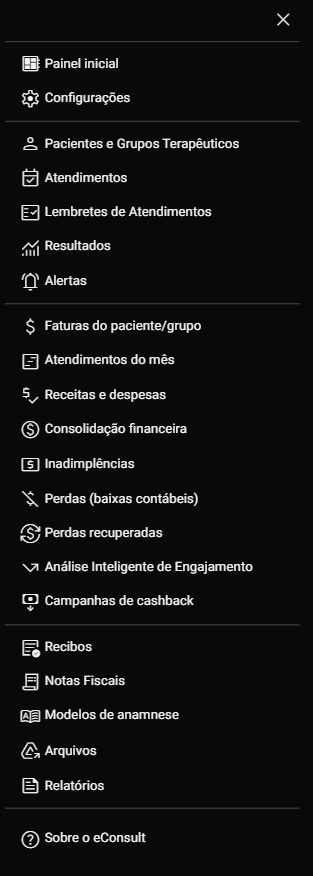
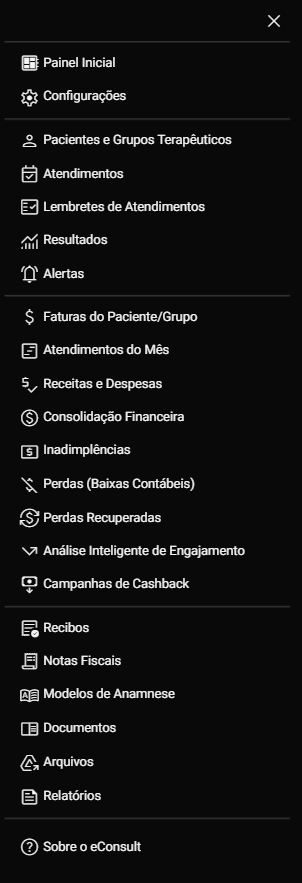
nilson

Changed region(s): [[0.0298, 0.0616, 0.9536, 0.9863], [0.894, 0.0, 0.9238, 0.0308]]

diff --git a/docs/08_funcionalidades/20-documentos/00-visao.md b/docs/08_funcionalidades/20-documentos/00-visao.md
@@ -1,0 +1,119 @@
+---
+sidebar_position: 0
+---
+
+# Sobre Documentos
+
+O módulo **Documentos** do eConsult foi desenvolvido para simplificar a **criação, personalização e emissão de relatórios, declarações e demais documentos psicológicos**, diretamente dentro da plataforma — de forma segura, organizada e integrada aos dados clínicos do paciente.
+
+Essa funcionalidade elimina a necessidade de editores externos, oferecendo um ambiente completo onde o profissional pode **gerar modelos personalizados**, **inserir variáveis automáticas**, **visualizar em tempo real** e **exportar para PDF ou Word** com apenas um clique.
+
+## Principais Recursos
+
+---
+
+### Modelos Inteligentes
+O eConsult permite criar e gerenciar modelos de documentos reutilizáveis — como **relatórios psicológicos, declarações, termos e pareceres técnicos**.  
+Esses modelos podem conter **variáveis dinâmicas** (ex.: `@@p.nome@@`, `@@e.registro_conselho@@`) que são automaticamente substituídas pelos dados reais do paciente, grupo terapêutico ou profissional no momento da emissão.
+
+[[aqui será colocado um print]]
+
+---
+
+### Edição Visual e Código HTML
+O módulo de documentos possui dois modos de edição:
+- **Visual (Preview Editável):** semelhante a um editor de texto, com visualização instantânea do resultado.
+- **Código HTML:** para usuários avançados, permitindo ajustes finos no layout e estilos diretamente via código, com destaque de sintaxe e formatação automática via "Monaco Editor".
+
+Essa abordagem híbrida garante flexibilidade tanto para psicólogos quanto para administradores técnicos.
+
+---
+
+### Vinculação a Pacientes/Grupos ou Contas
+Cada modelo pode ser vinculado a um contexto específico, garantindo que o documento esteja acessível **somente nos locais corretos de uso**:
+- Conta do profissional (ex.: termos institucionais)
+- Paciente ou grupo terapêutico (ex.: declarações individuais)
+
+Ao imprimir um documento, o sistema automaticamente insere as informações correspondentes ao vínculo escolhido.
+
+---
+
+### Variáveis Automáticas
+O eConsult inclui uma biblioteca de **variáveis de substituição** que automatizam a geração de dados:
+- **Paciente:** nome, CPF, data de nascimento, idade etc.  
+- **Profissional:** nome, registro no conselho, especialidade etc.  
+- **Atendimento:** data, tipo de sessão, local etc.  
+- **Sistema:** data atual, hora, nome do documento etc.
+
+Essas variáveis podem ser inseridas no modelo usando o seletor lateral de variáveis.
+
+[[aqui será colocado um print]]
+
+---
+
+### Exportação em PDF e Word
+A partir de qualquer documento, é possível **gerar versões em PDF ou Word (DOCX)** fielmente formatadas, prontas para impressão ou envio digital.  
+O sistema utiliza o mesmo layout HTML renderizado, garantindo **padronização visual** e **preservação da identidade profissional**.
+
+[[aqui será colocado um print]]
+
+---
+
+### Substituição e Pré-visualização Instantânea
+Durante a edição, o sistema substitui automaticamente todas as variáveis por seus valores reais e mostra uma **pré-visualização em tempo real** do documento final — incluindo quebras de página, cabeçalho e rodapé.
+
+Isso permite validar o conteúdo antes da emissão e garante que cada documento saia **pronto e consistente**.
+
+### Integração com Outras Funcionalidades
+Os documentos se integram de forma nativa com:
+- **Prontuário Eletrônico:** publicação opcional no histórico clínico do paciente.  
+- **Arquivos (Google Drive):** armazenamento e sincronização automática de documentos emitidos.  
+- **Notas Fiscais (Focus NFe):** inclusão de relatórios anexos a faturas e comprovantes.  
+- **AI Assistente:** geração automática de textos técnicos, relatórios ou pareceres com base em prompts personalizados.
+
+---
+
+## Como Acessar
+
+1. No menu lateral, selecione **Documentos**.
+2. Escolha entre visualizar um modelo existente ou criar um novo.
+3. Ao editar um modelo:
+   - Utilize o **modo visual** para pré-visualizar o resultado.  
+   - Ou o **modo código** para editar o HTML diretamente.
+4. Ao finalizar, clique em **Salvar Modelo**.
+5. Para emitir, selecione o modelo e clique em **Gerar PDF** ou **Gerar Word**.
+
+---
+
+## Dicas
+
+:::tip DICAS
+- Use variáveis de data e hora (`@@data_extenso@@`, `@@hora@@`) para automatizar campos dinâmicos.  
+- Utilize o botão “📄 Pré-visualizar” antes de imprimir.  
+- Centralize seus modelos institucionais vinculando-os à **Conta** do profissional.  
+- Para termos recorrentes, use o mesmo modelo e apenas altere o contexto (paciente ou grupo).
+:::
+
+---
+
+## Exemplo de Uso
+
+[[aqui será colocado um print]]
+
+No exemplo acima, o profissional:
+1. Escolhe o modelo **“Declaração Psicológica”**.  
+2. O sistema preenche automaticamente os dados do paciente.  
+3. Ele revisa o texto, visualiza o resultado e gera o documento em PDF.  
+4. O arquivo é salvo e vinculado ao prontuário, ficando disponível para futuras consultas.
+
+---
+
+## Benefícios para o Psicólogo
+
+✅ Reduz tempo gasto com formatação manual  
+✅ Centraliza documentos clínicos e administrativos  
+✅ Garante consistência visual e técnica  
+✅ Facilita o cumprimento das normas do CFP e LGPD  
+✅ Integra com outros módulos (Arquivos, Prontuário, Financeiro)
+
+---

diff --git a/docs/06_iniciando/02_interface-navegacao/04_menu-principal.md b/docs/06_iniciando/02_interface-navegacao/04_menu-principal.md
@@ -33,6 +33,7 @@ O Menu Principal pode ser acessado através do botão ![Botão Tarefas](../../..
 | **Recibos** | Abre o [Painel Recibos](/docs/funcionalidades/recibos/visao) - exibe todos os recibos emitidos, ativos ou cancelados, em *cards* organizados, facilitando o controle e a visualização das informações.|
 | **Notas Fiscais** | Abre o [Painel Notas Fiscais](#) - exibe todos os informes ou emissão de Notas Fiscais em *cards* organizados, facilitando o controle e a visualização das informações.|
 | **Modelos de anamnese** | Abre o [Painel Modelos de Anamnese](/docs/funcionalidades/modelo-anamnese/visao) - permite a gestão de modelos de anamnese personalizados para coletar informações específicas de pacientes, facilitando a padronização dos dados usados no prontuário.|
+| **Documentos** | Abre o [Painel Documentos](#) - permite a gestão de modelos de documentos personalizados.|
 | **Arquivos** | Abre o [Painel Arquivos](/docs/funcionalidades/arquivos/visao) - permite visualizar e anexar arquivos vinculados a pacientes, grupos ou atendimentos usando o sistema integrado de gerenciamento de arquivos.|
 | **Relatórios** | Abre o [Painel Relatórios](/docs/funcionalidades/relatorios/visao) - oferece ferramentas para gerar relatórios detalhados sobre desempenho, finanças e relacionamento, facilitando análise estratégica dos atendimentos.|
 | **Sobre o eConsult** | Abre a [página principal da Central de Ajuda eConsult](/) |
